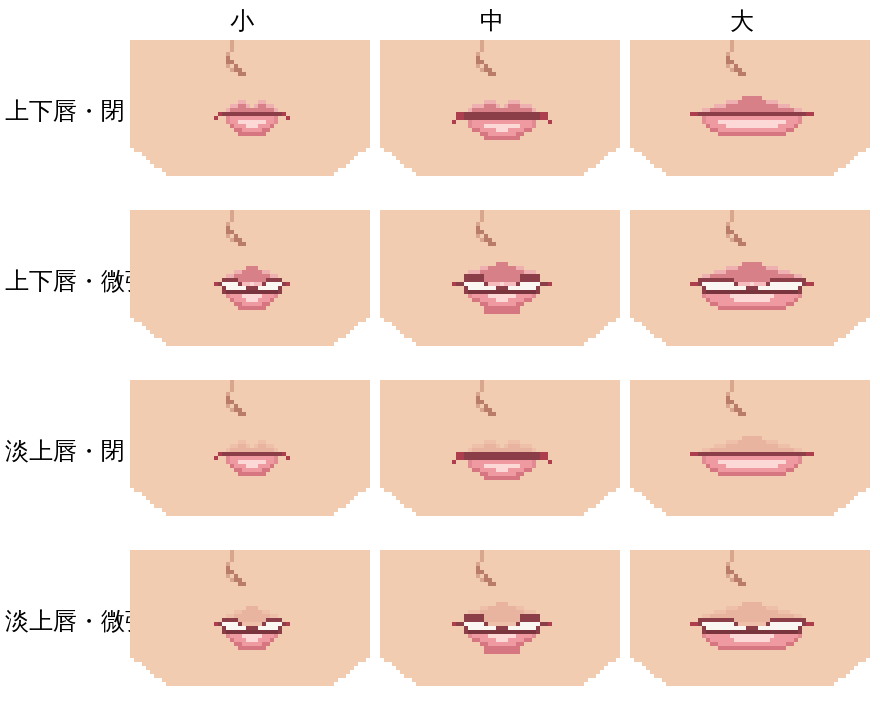
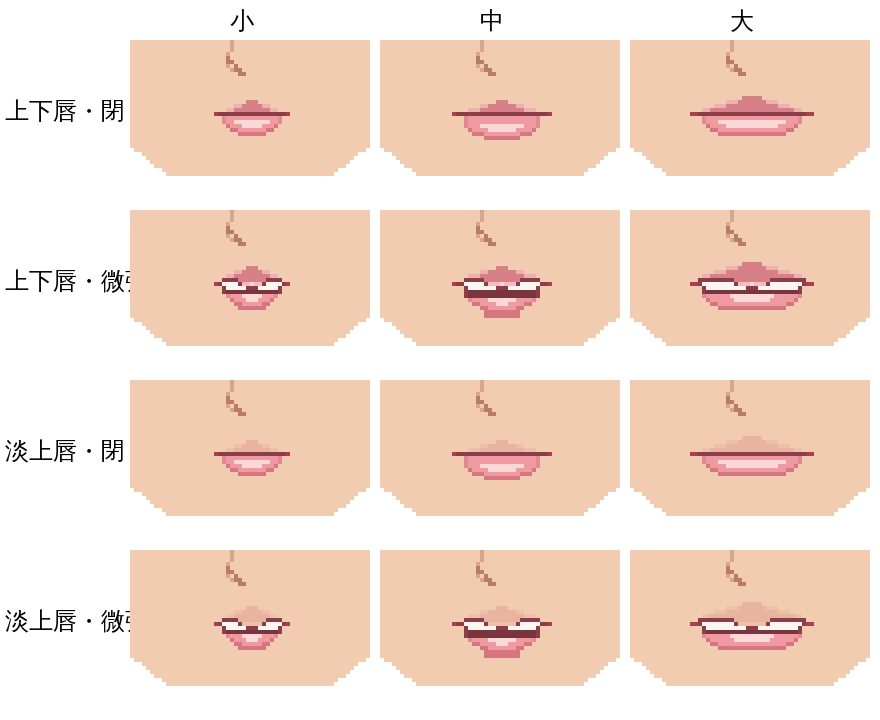
droom 臉模 v2：小、中嘴閉嘴也換成唇珠往上鼓、嘴角不勾；中嘴放大時有線的列（嘴縫、開口上緣）不重複成粗線；淡上唇顏色定案；samples/mouth_all.png
Claude-Session: https://claude.ai/code/session_01FDQv7ddy7JMjePn6AqJ3VJ

diff --git a/web/droom/face_mold/v2/features.py b/web/droom/face_mold/v2/features.py
@@ -86,6 +86,10 @@ def mouth_px():
   if MT=='open' and os.environ.get('MS','小')!='大':
     SP=[h+h[:9][::-1] for h in ["........UU",".....uuUUU","...uuUUUUU","..LLLLUUUU","CLTTTTLbbH","..LTTTTTLL","..LMMMMMMM","...lPPPHHH","....DPPPHH",".....DDPPP","......DDDD"]]
     DZ=[0,0,0,0,-.4,-1.6,-3.6,-1.8,-2.4,-3,-3.6]
+  # 小、中嘴閉嘴也換成同一種唇珠（使用者 2026-11-19），嘴角不往下勾
+  if MT!='open' and os.environ.get('MS','小')!='大':
+    SP=[h+h[:9][::-1] for h in ["........UU",".....uuUUU","...uuUUUUU","CLLLLLLLLL","..lPPPPPPP","..lPPHHHHH","...DPPPHHH","....DDPPPP","......DDDD"]]
+    DZ=[0,0,0,-.6,-1.6,-2.2,-2.8,-3.2,-3.6]
   # 大嘴（MS=大）：使用者改的那張（嘴角不勾、唇珠在上唇中間往上鼓）；左半 16 格鏡射
   if os.environ.get('MS','小')=='大':
     mir=lambda rows:[h+h[:15][::-1] for h in rows]
@@ -107,8 +111,12 @@ def mouth_px():
   sx,sy={'小':(1,1),'中':(1.32,1.15),'大':(1,1)}[os.environ.get('MS','小')]   # 大＝上面手點的，不再放大
   if sx!=1 or sy!=1:
     W0,H0=len(SP[0]),len(SP);W2=round(W0*sx)|1;H2=round(H0*sy)
-    SP=[''.join(SP[min(H0-1,int((r+.5)/sy))][min(W0-1,int((c+.5)*W0/W2))] for c in range(W2)) for r in range(H2)]
-    DZ=[DZ[min(H0-1,int((r+.5)/sy))] for r in range(H2)]
+    rm=[min(H0-1,int((r+.5)/sy)) for r in range(H2)]
+    for r in range(1,H2):                        # 有線（嘴縫、開口上緣）的那列不要被放大成兩列（會變粗線），重複的那列改用下一列
+      if rm[r]==rm[r-1] and SP[rm[r]].count('L')>=4:rm[r]=min(H0-1,rm[r]+1)
+    for r in range(1,H2):rm[r]=max(rm[r],rm[r-1])
+    SP=[''.join(SP[rm[r]][min(W0-1,int((c+.5)*W0/W2))] for c in range(W2)) for r in range(H2)]
+    DZ=[DZ[rm[r]] for r in range(H2)]
     LINE=[i for i,r in enumerate(SP) if 'C' in r][0]
   SC=(len(SP[0])-1)//2;y0=round(Y(588))
   o={}
